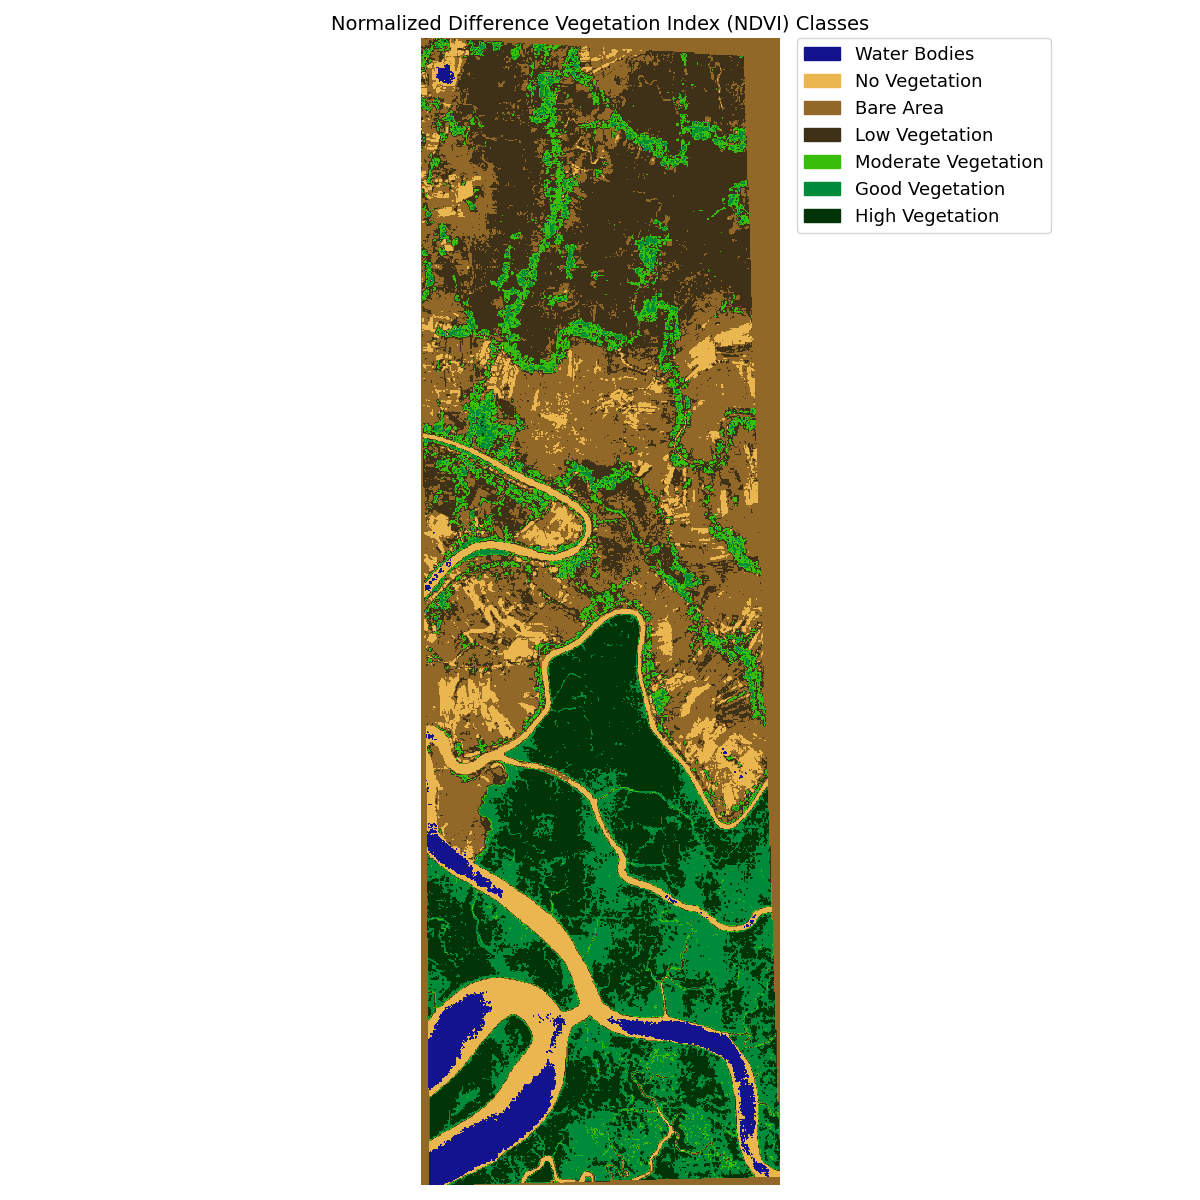
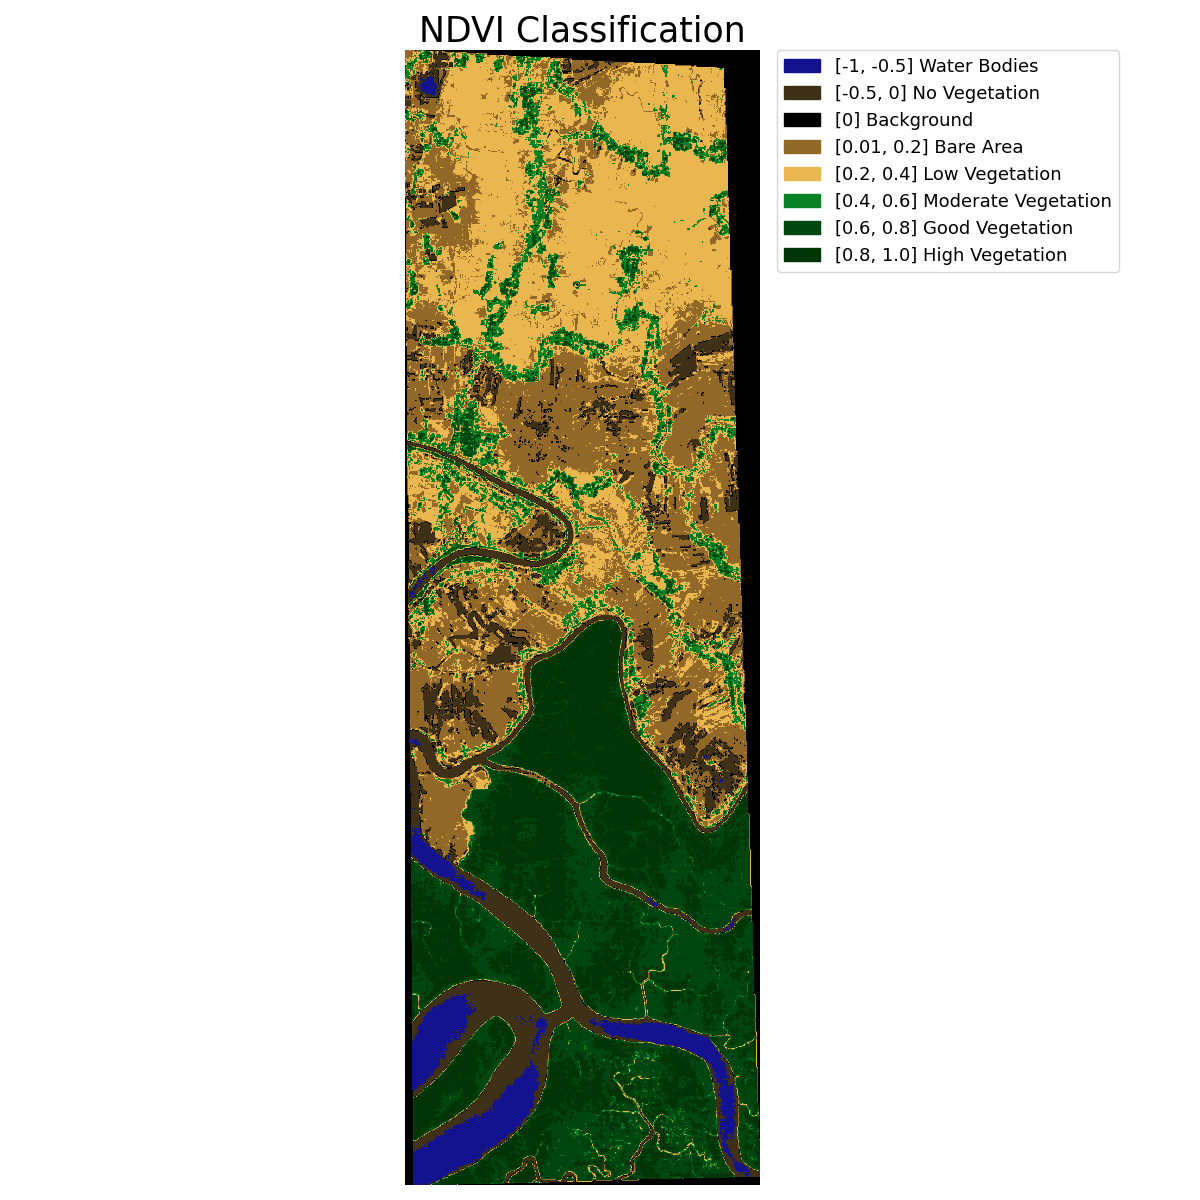
working code

Changed region(s): [[0.2775, 0.0, 0.925, 0.9867]]

diff --git a/templates/index.html b/templates/index.html
@@ -1,16 +1,6 @@
 {% extends 'base.html' %}
 {% block content %}
 <div class="container">
-  <a href="http://127.0.0.1:5000/signin"> signin</a>
-    <div class="banner ">
-        <div class="font">
-
-            <img class="mb-4" src="../static/MicrosoftTeams-image.png" style=" margin-left:45%; margin-top:15%" width="275" height="275">
-
-                 <h1 style="color:white; position:absolute; margin-left:47.5%" >   ANTARIKCHYA</h1>
-        </div>
-
-    </div>
 
 </div>
 {% endblock %}

diff --git a/ndvi.py b/ndvi.py
@@ -5,8 +5,7 @@
 import rasterio as rio
 from rasterio import plot
 import matplotlib.pyplot as plt
-import numpy as np
-import glob
+import numpy as np  
 from matplotlib.colors import ListedColormap
 import earthpy.plot as ep
 
@@ -21,7 +20,8 @@ def ndvi(files_path):
                 rgb=(2, 1, 0),
                 stretch=True,
                 str_clip=0.2,
-                figsize=(10, 16)).figure
+                figsize=(10, 16),
+                title="True Color Image").figure
 
 
     fig1.savefig("static/Results/RBG.png")
@@ -30,7 +30,8 @@ def ndvi(files_path):
                 rgb=(3, 2, 1),
                 stretch=True,
                 str_clip=0.2,
-                figsize=(10, 16)).figure
+                figsize=(10, 16),
+                title="False Color Image").figure
     fig2.savefig("static/Results/False_Color.png")
 
     red = l[2].astype('float64')
@@ -42,8 +43,24 @@ def ndvi(files_path):
         (nir - red)/(nir + red)
     )
 
+    remove_bg = ndvi[(ndvi<0) | (ndvi>0)]
+    average_ndvi = np.sum(remove_bg)/remove_bg.size
+    average_ndvi = round(average_ndvi, 2)
+    fig3 = plt.figure()
+    plt.ylim([1,3])
+    plt.plot([-1, 1], [2, 2], color='blue', linewidth=3)
+    for i in np.arange(-1,1.1,0.1):
+        plt.plot([i, i], [1.98, 2.02], color='blue', linewidth=1.5)   
+    plt.scatter(average_ndvi, 2, s=200, color='red',alpha=1, zorder=3)
+    plt.text(-0.975, 2.5, 'NDVI Average: %.2f'%average_ndvi, color='blue', fontsize=30)
+    plt.text(-1.05, 1.8, '-1', color='blue', fontsize=15)
+    plt.text(0.9, 1.8, '+1', color='blue', fontsize=15)
+    plt.text(-0.025, 1.8, '0', color='blue', fontsize=15)
+    plt.axis('off')
+    plt.savefig("static/Results/result_ndvi.png")
 
-    ndvi_class_bins = [-1.0, -0.5, 0, 0.2, 0.4, 0.6, 0.8, 1.0]
+
+    ndvi_class_bins = [-1.0, -0.5, 0, 0.000000001, 0.2, 0.4, 0.6, 0.8, 1.0]
     ndvi_landsat_class = np.digitize(ndvi, ndvi_class_bins)
 
     # Apply the nodata mask to the newly classified NDVI data
@@ -53,42 +70,42 @@ def ndvi(files_path):
     np.unique(ndvi_landsat_class)
 
     # Define color map
-    # nbr_colors = ["#13128f", "#96601a", "#670f00", "#38bd09", "#013407"]
-    nbr_colors = ["#13128f", "#eab64f", "#926829", "#3e3117", "#38bd09", "#008b3a", "#013407"]
-    # nbr_colors = ["#13128f", "#96601a", "#670f00", "#38bd09", "#013407"]
+    nbr_colors = ["#13128f", "#3e3117", "#000000", "#926829", "#eab64f", "#0A8125", "#004610", "#013407"]
     nbr_cmap = ListedColormap(nbr_colors)
 
     # Define class names
     ndvi_cat_names = [
-        "Water Bodies",
-        "No Vegetation",
-        "Bare Area",
-        "Low Vegetation",
-        "Moderate Vegetation",
-        "Good Vegetation",
-        "High Vegetation",
+        "[-1, -0.5] Water Bodies",
+        "[-0.5, 0] No Vegetation",
+        "[0] Background",
+        "[0.01, 0.2] Bare Area",
+        "[0.2, 0.4] Low Vegetation",
+        "[0.4, 0.6] Moderate Vegetation",
+        "[0.6, 0.8] Good Vegetation",
+        "[0.8, 1.0] High Vegetation",
     ]
 
     # Get list of classes
     classes = np.unique(ndvi_landsat_class)
     classes = classes.tolist()
     # The mask returns a value of none in the classes. remove that
-    classes = classes[0:7]
+    classes = classes[0:8]
 
     # Plot your data
     fig, ax = plt.subplots(figsize=(12, 12))
     im = ax.imshow(ndvi_landsat_class, cmap=nbr_cmap)
-
     ep.draw_legend(im_ax=im, classes=classes, titles=ndvi_cat_names)
-    ax.set_title(
-        "Normalized Difference Vegetation Index (NDVI) Classes",
-        fontsize=14,
-    )
+    # ax.set_title(
+    #     "Normalized Difference Vegetation Index (NDVI) Visualization",
+    #     fontsize=15,
+    # )
+    plt.title("NDVI Classification", fontsize = 25)
     ax.set_axis_off()
-
     # Auto adjust subplot to fit figure size
     plt.tight_layout()
-
     plt.savefig('static/Results/ndvi.png')
+    plt.close()
 
-    return ["static/Results/RBG.png","static/Results/ndvi.png","static/Results/False_Color.png"]
+    
+
+    return ["static/Results/RBG.png","static/Results/False_Color.png", "static/Results/ndvi.png","static/Results/result_ndvi.png"]
